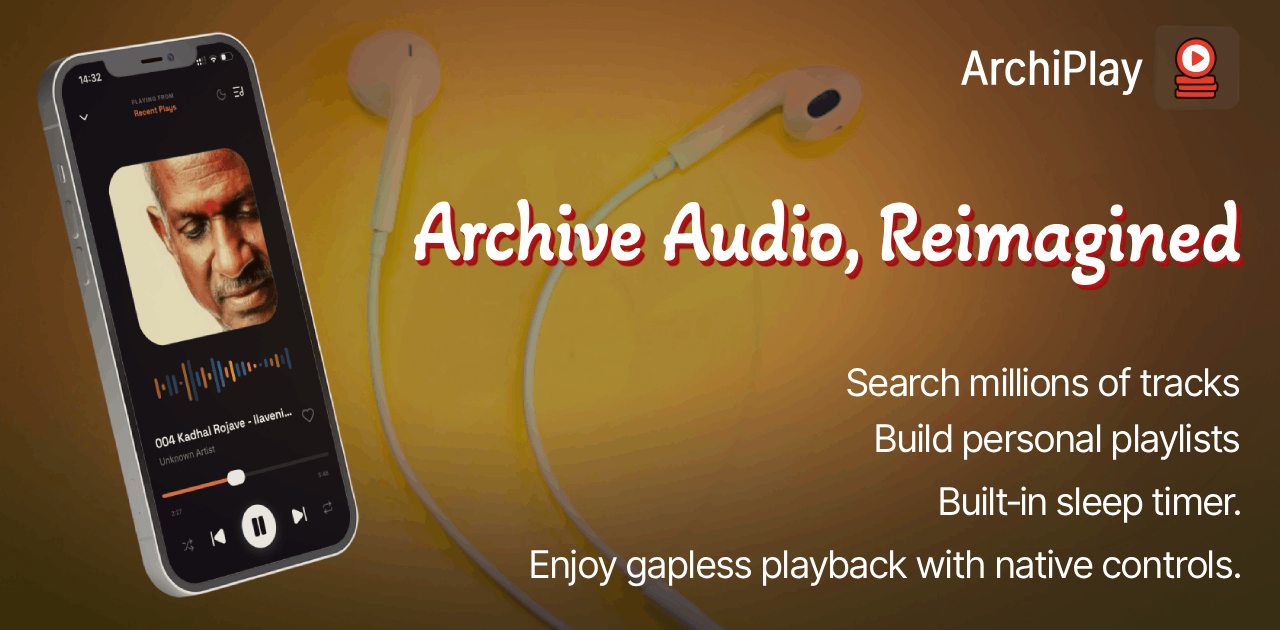
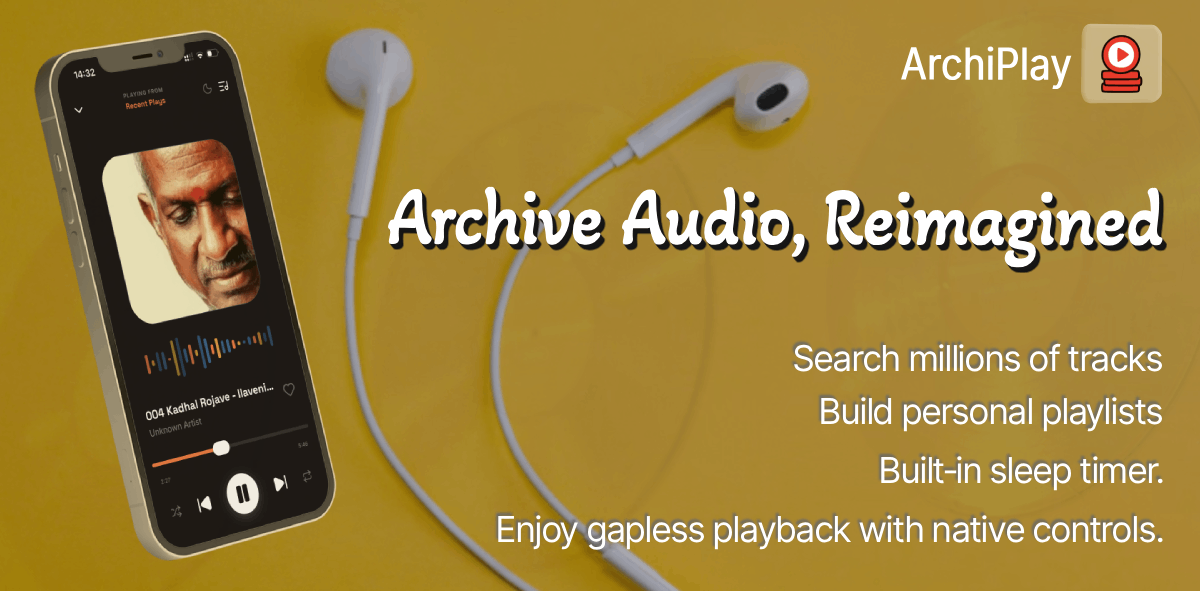
chore: bump build number, downgrade flash-list version, and update analytics configuration

diff --git a/src/utils/analytics.ts b/src/utils/analytics.ts
@@ -8,8 +8,8 @@ const HOST = process.env.EXPO_PUBLIC_POSTHOG_HOST || "https://app.posthog.com";
 
 export const posthog = new PostHog(API_KEY, {
   host: HOST,
-  flushAt: 15,             // Flush events in batches of 15
-  flushInterval: 10000,    // Or every 10 seconds
+  flushAt: 15, // Flush events in batches of 15
+  flushInterval: 10000, // Or every 10 seconds
 });
 
 export const analytics = {